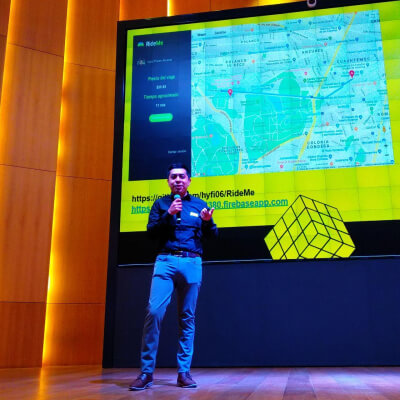
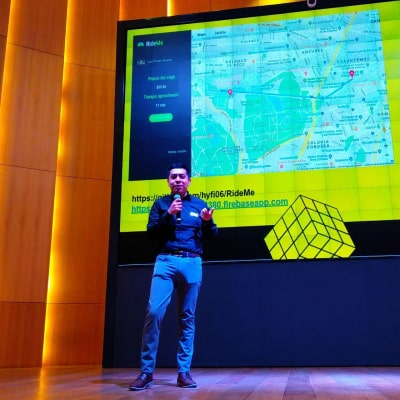
Add portfolio image

diff --git a/src/pages/api/data.js b/src/pages/api/data.js
@@ -52,7 +52,7 @@ export default (req, res) => {
     projects: [
       {
         name: 'Portafolio',
-        screenshot: 'https://i.imgur.com/OBrxF3I.png',
+        screenshot: '/static/portfolio.jpg',
         url: 'https://luisfloresdev.com',
       },
       {
